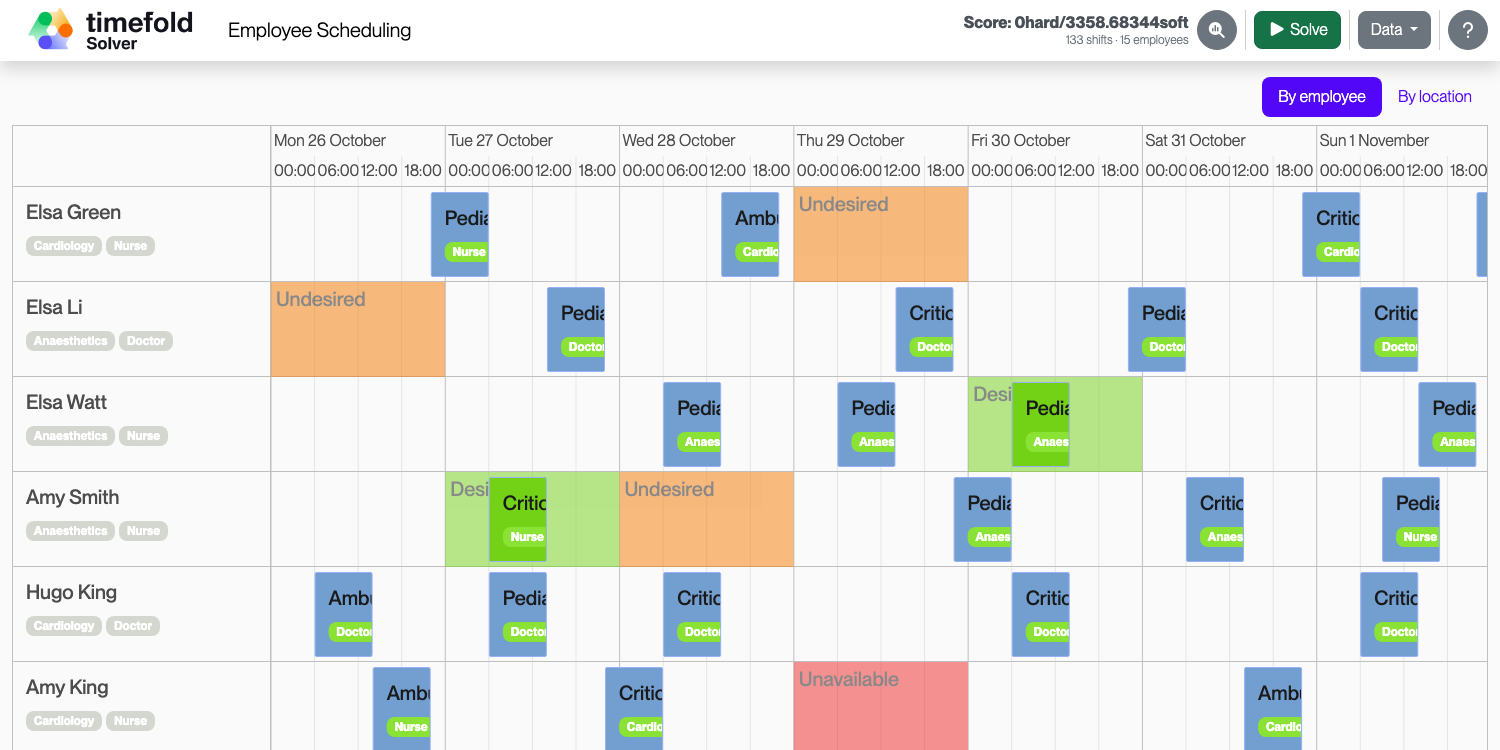
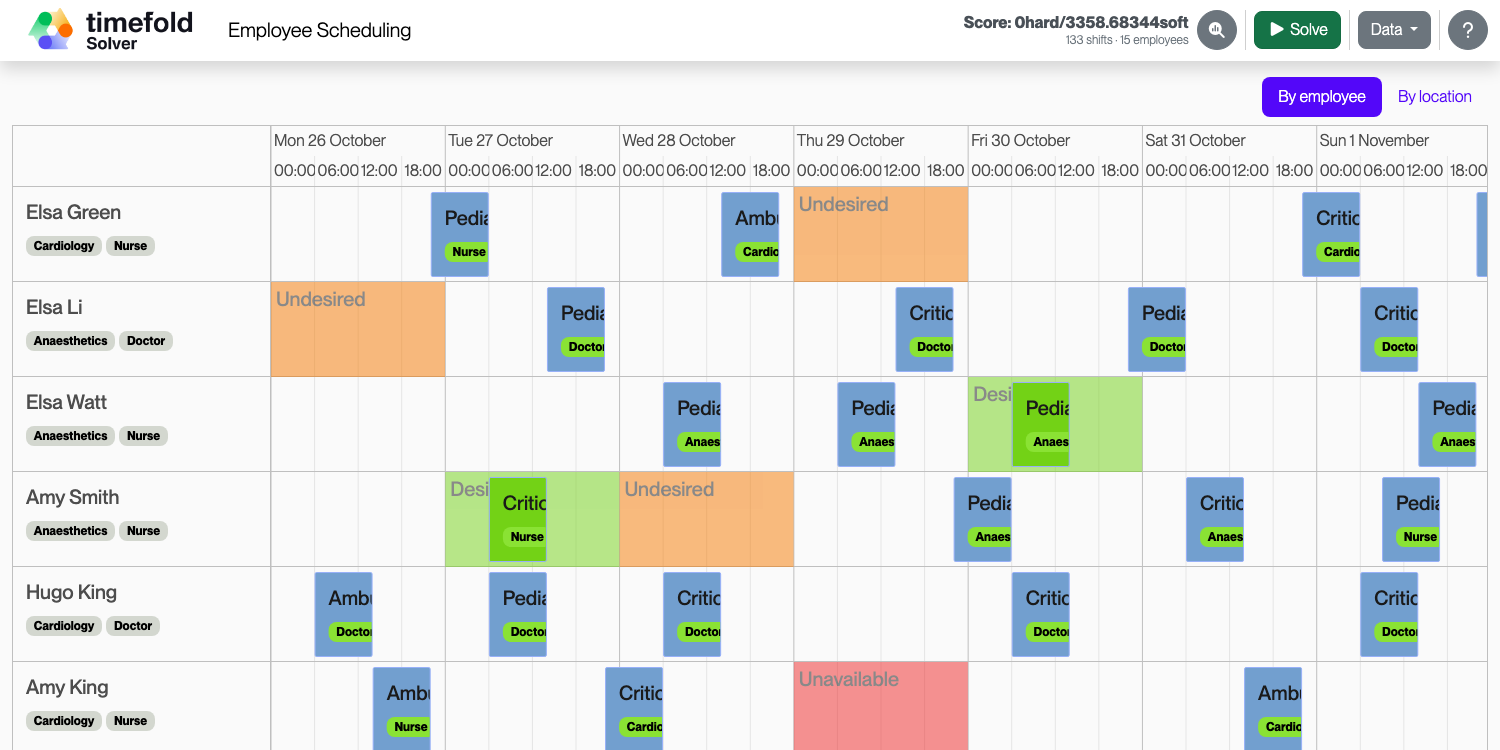
chore: DemoDataBuilder remove magic numbers

diff --git a/use-cases/employee-scheduling/src/main/java/org/acme/employeescheduling/demo/DemoDataBuilder.java b/use-cases/employee-scheduling/src/main/java/org/acme/employeescheduling/demo/DemoDataBuilder.java
@@ -26,7 +26,7 @@ import org.acme.employeescheduling.dto.input.ShiftInputDTO;
 public final class DemoDataBuilder {
     private static final int WEEK_DAYS = 7;
     private static final int BASIC_EMPLOYEE_COUNT = 15;
-    private static final int LARGE_EMPLOYEE_COUNT = 15;
+    private static final int LARGE_EMPLOYEE_COUNT = 50;
 
     public enum DemoDataSize {
 
